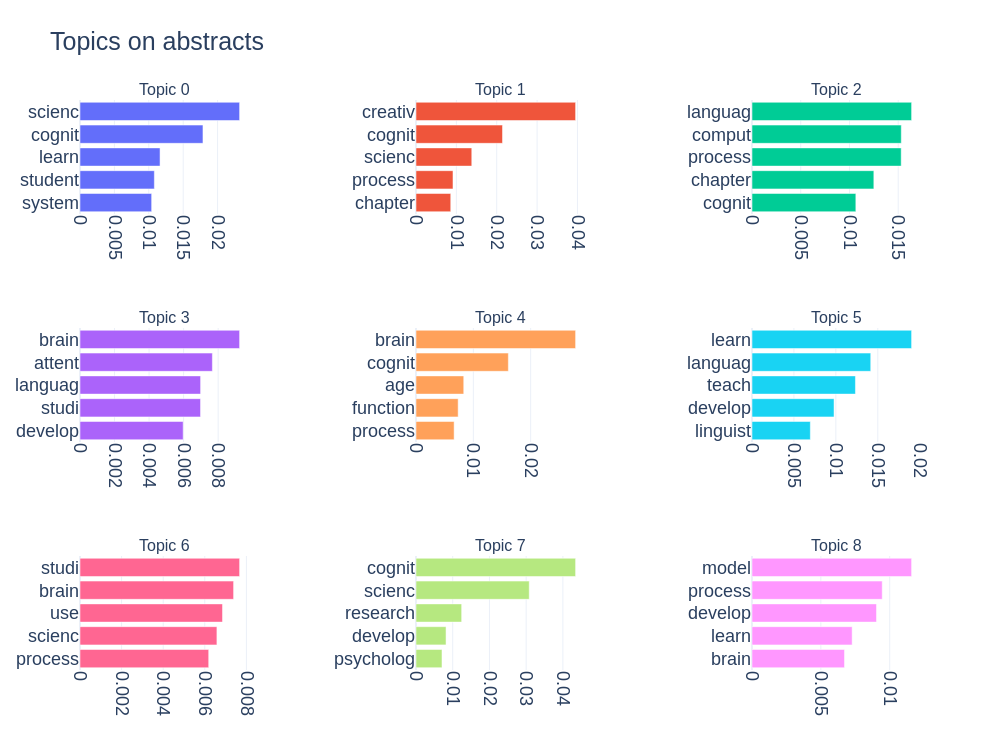
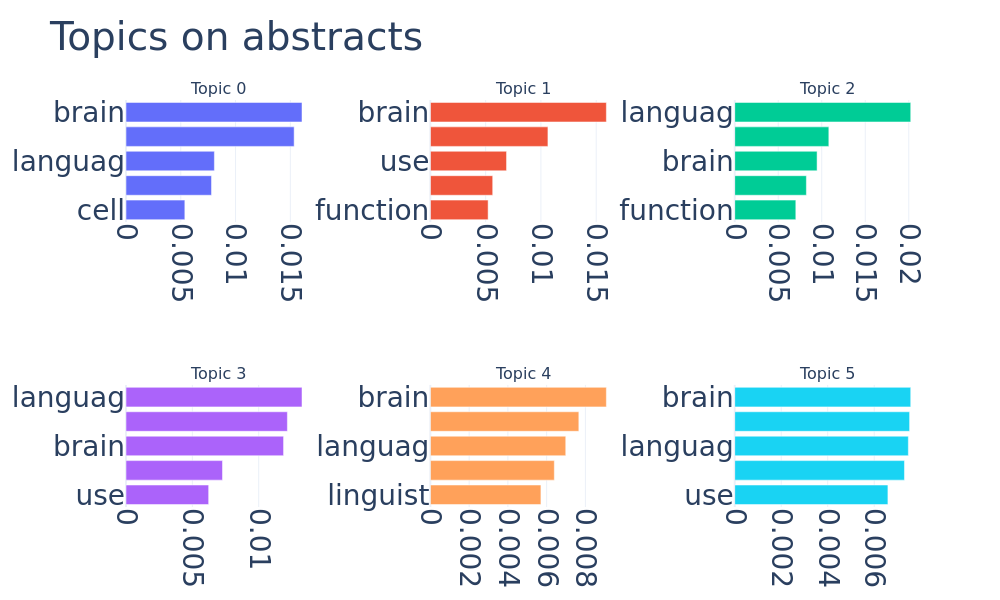
updates

Changed region(s): [[0.0, 0.03, 0.62, 0.99], [0.31, 0.09, 0.93, 0.99], [0.279, 0.36, 0.31, 0.51]]

diff --git a/scripts/LDA_utility.py b/scripts/LDA_utility.py
@@ -138,9 +138,9 @@ def run_LDA(data, num_topics : int, analysis = "abstracts", save_plot = True, fi
 
     #fitting
     if random == True:
+        random_state=24
         lda_model = gensim.models.ldamodel.LdaModel(corpus, num_topics=num_topics, id2word=dictionary, alpha=alpha, eval_every=5,random_state=random_state)
     else:
-        random_state=24
         lda_model = gensim.models.ldamodel.LdaModel(corpus, num_topics=num_topics, id2word=dictionary, alpha=alpha, eval_every=5)
         
    #plotting

diff --git a/README.md b/README.md
@@ -79,7 +79,7 @@ importing abstracts or titles are performed by the function "get_data"
 So to extract 500 abstracts and titles (per search word) from the year 2000 until today with the keywords specified in queries. 
 
 ```python
-from scripts.utility_funtions import *
+from utility_funtions import *
 #insert API-key here:
 key = ""
 
@@ -95,7 +95,7 @@ To find sensible hyperparameters for BERTopic for either abstracts or titles sim
 form UMAP using the following code (this is for abstracts)
 To make the code reproducible include random = False
 ```python
-from scripts.BERT_utility import *
+from BERT_utility import *
 
 proj = get_umap(data, analysis = "abstracts", random = False)
 ```
@@ -107,6 +107,8 @@ proj = get_umap(data, analysis = "abstracts", random = False)
 To determine the cluster size use the function determin_clustersize, which takes a list of cluster_sizes as arguments and plot the resulting clustering.
 
 ```python
+from BERT_utility import *
+
 determin_clustersize(proj, cluster_size = [16])
 ```
 
@@ -149,10 +151,7 @@ Bertopic_model.visualize_topics_over_time(topics_over_time)
 To run topic modeling on the same data using the LDA framework:
 
 ```python 
-from scripts.LDA_utility import *
-
-
-fig, lda_model = run_LDA(data, 10, analysis = "abstracts", save_plot = False, bow = 1, alpha = "auto", random = True)
+fig, lda_model = run_LDA(data, 6, analysis = "abstracts", save_plot = False, bow = 1, alpha = "auto", random = True):
 ```
 
 ![](Readme_figures/LDA_topics.png)
